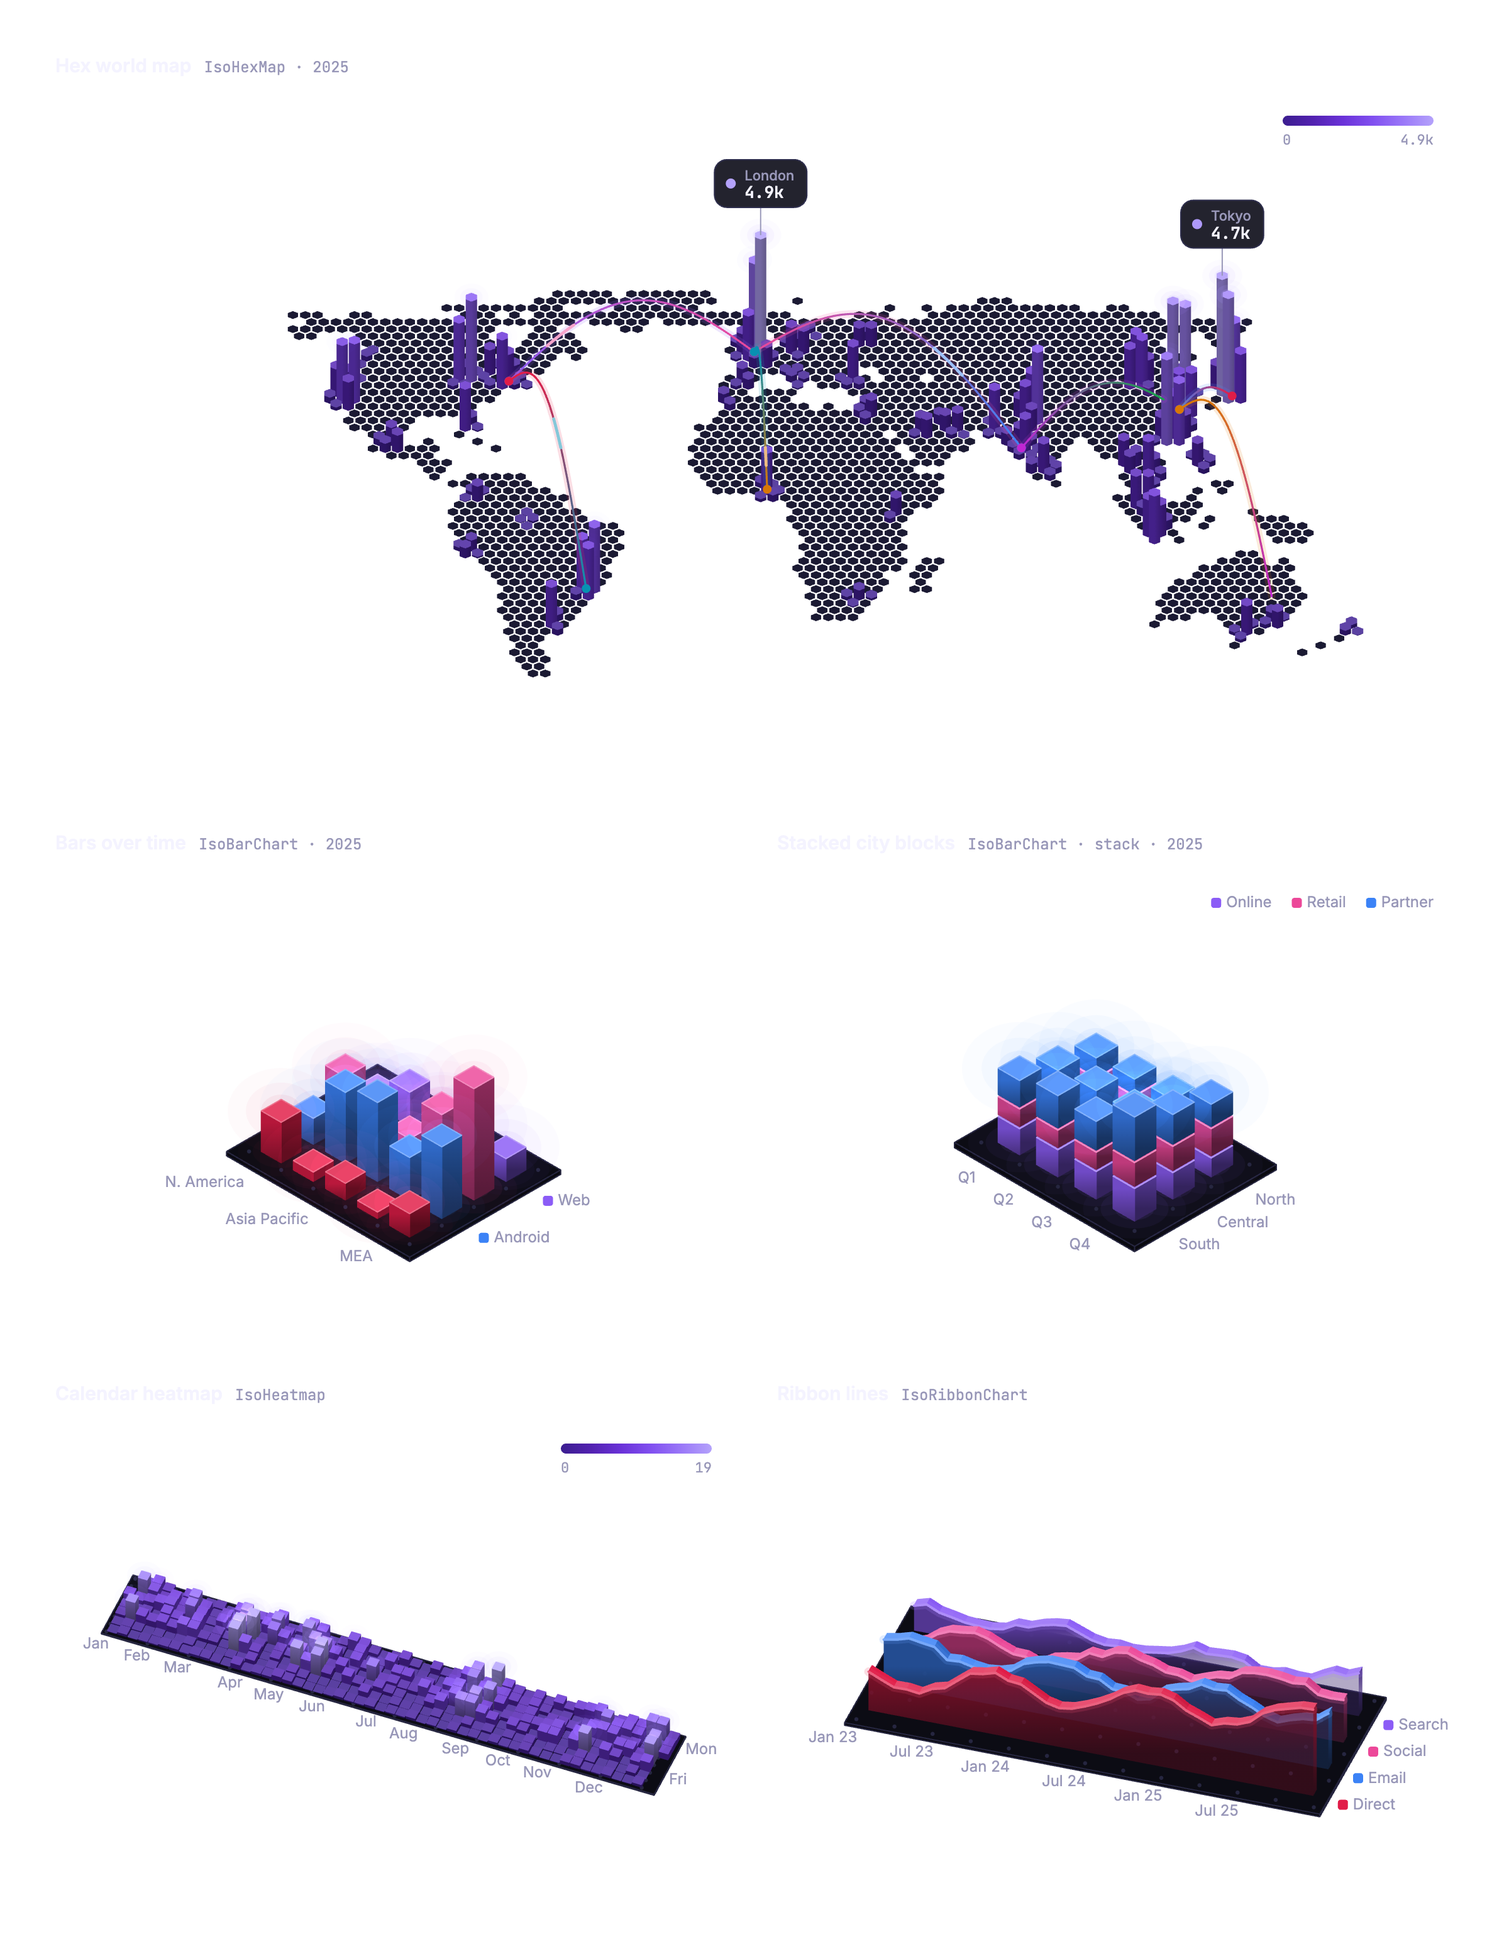
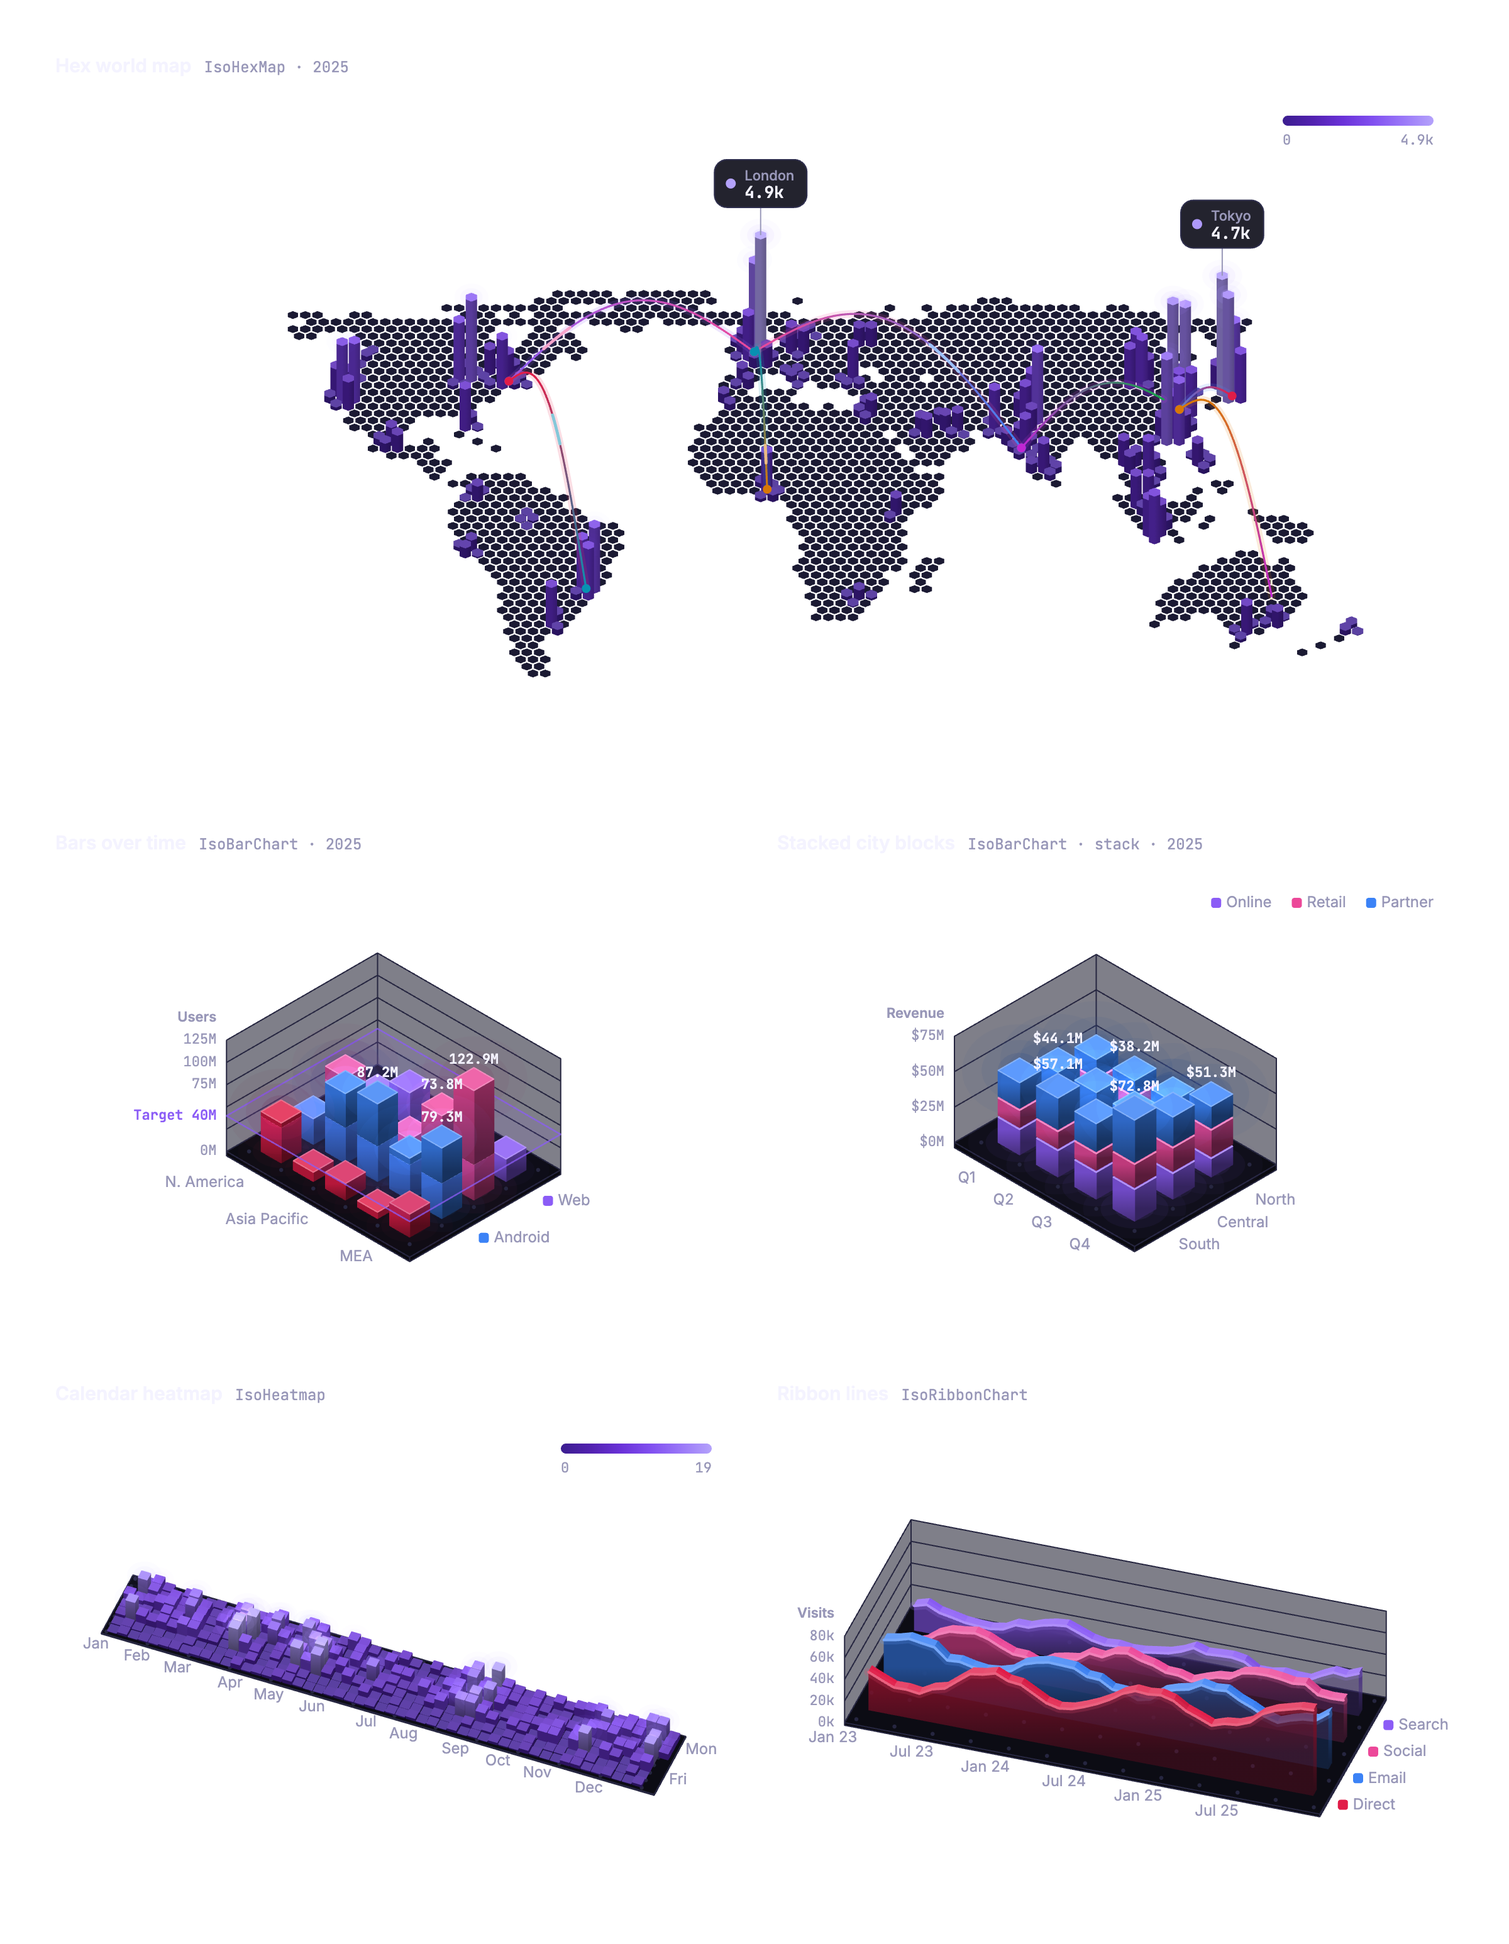
Add value axis walls, level line, value labels and reference plane
Grid charts draw two back walls on the floor edges farthest from the
camera with gridlines at round ticks; the scale tops out at the nearest
round step above the data. Hovering draws dashed lines from the mark's
top to both walls and a value pill on the axis. IsoBarChart adds value
labels (labels: true | N) and a reference plane drawn in split passes so
bars read as rising through it. Hovered bars no longer lift while an axis
is shown, since that would misstate their value.

Changed region(s): [[0.125, 0.4968, 0.375, 0.621], [0.5312, 0.7762, 0.9375, 0.9004], [0.5938, 0.4968, 0.8438, 0.621]]

diff --git a/src/core/grid-chart.js b/src/core/grid-chart.js
@@ -16,6 +16,27 @@ const accessor = (a) => (typeof a === 'function' ? a : (d) => d[a]);
 export const key = (x, y) => `${x}\u0000${y}`;
 const unique = (values) => [...new Set(values)];
 
+// Round tick values from 0 to at least `max`. Among round steps (1, 2, 2.5, 5
+// x 10^n) giving 3-6 intervals, pick the one with the lowest top, so the
+// axis hugs the data instead of overshooting it.
+export function niceTicks(max, count = 4) {
+  if (!(max > 0)) return [0, 1];
+  const mag = 10 ** Math.floor(Math.log10(max / count));
+  let best = null;
+  for (const m of [mag / 10, mag, mag * 10]) {
+    for (const f of [1, 2, 2.5, 5]) {
+      const step = f * m;
+      const n = Math.ceil(max / step - 1e-9);
+      if (n < 3 || n > 6) continue;
+      const top = n * step;
+      if (!best || top < best.top - 1e-9 || (Math.abs(top - best.top) < 1e-9 && Math.abs(n - count) < Math.abs(best.n - count))) {
+        best = { step, n, top };
+      }
+    }
+  }
+  return Array.from({ length: best.n + 1 }, (_, i) => +(i * best.step).toPrecision(12));
+}
+
 export class GridChart extends Chart {
   constructor(container, options = {}) {
     super(container, options);
@@ -75,7 +96,19 @@ export class GridChart extends Chart {
     let max = 0;
     for (const f of this.frames)
       for (const vec of f.values.values()) max = Math.max(max, vec.reduce((a, b) => a + b, 0));
-    this.maxValue = this.options.max ?? (max || 1);
+    // With a value axis the scale tops out at a round tick, so gridlines
+    // land on clean values; without one it fits the data exactly.
+    const axis = this.axis;
+    if (this.options.max != null) {
+      this.maxValue = this.options.max;
+      this.ticks = niceTicks(this.maxValue, axis.ticks).filter((t) => t <= this.maxValue + 1e-9);
+    } else if (axis.show) {
+      this.ticks = niceTicks(max || 1, axis.ticks);
+      this.maxValue = this.ticks.at(-1);
+    } else {
+      this.maxValue = max || 1;
+      this.ticks = [];
+    }
 
     const [sx, sy] = this.spacing;
     const nx = this.xs.length;
@@ -218,9 +251,11 @@ export class GridChart extends Chart {
     const { renderer: R, theme } = this;
     this.fitScene(this.sceneBounds(), { top: 64, right: 28, bottom: 24, left: 28 });
     this.drawFloor();
+    this.drawWalls();
     this.drawLabels();
     this.drawMarks();
     R.ctx.globalAlpha = 1;
+    this.drawLevel();
     this.drawLegend();
 
     if (this.hovered && (this.timeline.playing || this.focus.value < 1)) this._updateTooltip();
@@ -240,6 +275,125 @@ export class GridChart extends Chart {
   }
 
   drawMarks() {}
+
+  // ---- value axis ------------------------------------------------------------
+
+  // options.axis: true | false | { ticks, title }. Charts set `defaultAxis`.
+  get axis() {
+    const a = this.options.axis ?? this.defaultAxis ?? true;
+    if (a === false) return { show: false, ticks: 4 };
+    return { show: true, ticks: 4, title: this.options.valueLabel, ...(typeof a === 'object' ? a : {}) };
+  }
+
+  // How visible the walls are: they fade out as the view nears top-down,
+  // where height can't be read anyway.
+  get wallFade() {
+    return Math.max(0, Math.min(1, (1.42 - this.camera.pitch) / 0.3));
+  }
+
+  // Two walls on the floor edges farthest from the camera, with gridlines at
+  // the ticks and labels on the outer edge. They follow the camera, so the
+  // axis is always behind the data; in front view the back wall faces the
+  // viewer and the chart reads like a plain 2D bar chart.
+  drawWalls() {
+    this._walls = null;
+    if (!this.axis.show) return;
+    const fade = this.wallFade;
+    if (fade <= 0) return;
+    const { camera: C, renderer: R, theme } = this;
+    const ctx = R.ctx;
+    const [hx, hy] = this.floorExtent();
+    const yFar = C.groundDepth(0, hy) < C.groundDepth(0, -hy) ? hy : -hy;
+    const xFar = C.groundDepth(hx, 0) < C.groundDepth(-hx, 0) ? hx : -hx;
+    const H = this.maxHeight;
+    const P = (x, y, z) => C.project(x, y, z);
+
+    ctx.globalAlpha = fade;
+    const wallFill = theme.wall ?? theme.floor;
+    R.polygon([P(-xFar, yFar, 0), P(xFar, yFar, 0), P(xFar, yFar, H), P(-xFar, yFar, H)], wallFill, theme.grid, 1);
+    R.polygon([P(xFar, yFar, 0), P(xFar, -yFar, 0), P(xFar, -yFar, H), P(xFar, yFar, H)], wallFill, theme.grid, 1);
+
+    // Labels go on whichever outer wall edge sits further left on screen.
+    const useA = P(-xFar, yFar, 0).x < P(xFar, -yFar, 0).x;
+    const ax = useA ? -xFar : xFar;
+    const ay = useA ? yFar : -yFar;
+    const reserved = [];
+    if (this.reference) reserved.push(P(ax, ay, this.z(this.reference.value)).y);
+    const hovered = this.cellOf(this.hovered);
+    if (hovered && this.focus.value > 0) reserved.push(P(ax, ay, this.z(this.levelValue(this.hovered))).y);
+    for (const tick of this.ticks) {
+      const z = this.z(tick);
+      if (tick > 0) {
+        ctx.beginPath();
+        const a = P(-xFar, yFar, z);
+        const b = P(xFar, yFar, z);
+        const c = P(xFar, -yFar, z);
+        ctx.moveTo(a.x, a.y);
+        ctx.lineTo(b.x, b.y);
+        ctx.lineTo(c.x, c.y);
+        ctx.strokeStyle = theme.grid;
+        ctx.lineWidth = 1;
+        ctx.stroke();
+      }
+      const p = P(ax, ay, z);
+      // Leave room for the reference label and the hover pill.
+      if (reserved.some((y) => Math.abs(y - p.y) < 18)) continue;
+      R.text(this.format(tick), p.x - 8, p.y, { color: theme.textMuted, size: 11, align: 'right', mono: true });
+    }
+    if (this.axis.title) {
+      const p = P(ax, ay, H);
+      R.text(this.axis.title, p.x - 8, p.y - 18, { color: theme.textMuted, size: 11, weight: 600, align: 'right' });
+    }
+    ctx.globalAlpha = 1;
+    this._walls = { xFar, yFar, ax, ay, fade };
+  }
+
+  // Value at the top of what's hovered (a stack reads at its part's top).
+  levelValue(datum) {
+    const cell = this.cellOf(datum);
+    if (datum?.cell && this.stack) {
+      let sum = 0;
+      for (let s = 0; s <= datum.index; s++) sum += cell.value[s];
+      return sum;
+    }
+    return cell.total;
+  }
+
+  // 3D crosshair: dashed lines from the hovered mark's top to both walls,
+  // and a value pill on the axis at exactly that height.
+  drawLevel() {
+    const w = this._walls;
+    const cell = this.cellOf(this.hovered);
+    if (!w || !cell || this.focus.value <= 0) return;
+    const { camera: C, renderer: R, theme } = this;
+    const ctx = R.ctx;
+    const value = this.levelValue(this.hovered);
+    const z = this.z(value);
+    const P = (x, y) => C.project(x, y, z);
+    const top = P(cell.gx, cell.gy);
+    ctx.globalAlpha = this.focus.value * w.fade;
+    ctx.setLineDash([4, 4]);
+    ctx.strokeStyle = theme.text;
+    ctx.lineWidth = 1;
+    for (const end of [P(cell.gx, w.yFar), P(w.xFar, cell.gy)]) {
+      ctx.beginPath();
+      ctx.moveTo(top.x, top.y);
+      ctx.lineTo(end.x, end.y);
+      ctx.stroke();
+    }
+    ctx.setLineDash([]);
+
+    // Value pill over the tick labels.
+    const a = P(w.ax, w.ay);
+    const text = this.format(value);
+    const tw = R.measure(text, 11, 600, true);
+    ctx.beginPath();
+    ctx.roundRect(a.x - tw - 16, a.y - 10, tw + 12, 20, 6);
+    ctx.fillStyle = theme.text;
+    ctx.fill();
+    R.text(text, a.x - 10, a.y, { color: theme.surface, size: 11, weight: 600, align: 'right', mono: true });
+    ctx.globalAlpha = 1;
+  }
 
   // Colour for a series slot (stack part when stacked, otherwise row).
   // options.colors may be an array, a { key: colour } map, or (key, index) => colour.

diff --git a/src/charts/IsoBarChart.js b/src/charts/IsoBarChart.js
@@ -16,39 +16,117 @@ export class IsoBarChart extends GridChart {
     this.init();
   }
 
+  // options.reference: a value or { value, label }. A translucent plane at
+  // that height; bars are split at it so what's below reads as submerged.
+  get reference() {
+    const r = this.options.reference;
+    if (r == null) return null;
+    return typeof r === 'object' ? r : { value: r };
+  }
+
+  setReference(reference) {
+    this.options.reference = reference;
+    this.invalidate();
+  }
+
   drawMarks() {
+    const R = this.renderer;
+    const cells = this.sortedCells();
+    const ref = this.reference;
+    if (!ref) {
+      this._drawBars(cells, 0, Infinity);
+    } else {
+      // Below the plane, the plane itself, then above: correct from any
+      // camera above the floor, with no per-pixel depth sorting.
+      const zp = this.z(ref.value);
+      this._drawBars(cells, 0, zp);
+      this._drawPlane(zp, ref);
+      this._drawBars(cells, zp, Infinity);
+    }
+    R.ctx.globalAlpha = 1;
+    this._drawValueLabels(cells);
+  }
+
+  // Draw every bar's parts clipped to the height band [lo, hi).
+  _drawBars(cells, lo, hi) {
     const { camera: C, renderer: R, theme } = this;
     const w = this.barWidth / 2;
     // A 2px surface gap between stacked parts, in world units.
     const gap = 2 / (C.scale * C.zoom);
     const hovered = this.hovered;
+    // Lifting a hovered bar would misstate its value against the axis.
+    const liftHeight = this.axis.show ? 0 : LIFT;
 
-    for (const cell of this.sortedCells()) {
+    for (const cell of cells) {
       R.ctx.globalAlpha = 1 - 0.55 * this.dimFor(cell);
       const lift = cell.lift.value;
       const box = { x0: cell.gx - w, x1: cell.gx + w, y0: cell.gy - w, y1: cell.gy + w };
-      let z = lift * LIFT;
+      let z = lift * liftHeight;
 
       if (cell.total <= 0) {
+        if (lo > 0) continue;
         // Keep empty cells pickable as a flat tile.
         const hits = drawBox(C, R, theme, { ...box, z0: z, z1: z + 0.015 }, parseHex(theme.grid));
         R.hit(hits, cell.parts[0]);
         continue;
       }
+      const lastPart = cell.parts.findLast((p) => cell.value[p.index] > 0);
       for (const part of cell.parts) {
         const h = this.z(cell.value[part.index]);
         if (h <= 0) continue;
+        const z0 = Math.max(z, lo);
+        const z1 = Math.min(z + Math.max(h - (this.stack ? gap : 0), 0.015), hi);
+        z += h;
+        if (z1 <= z0) continue;
         const color = this.seriesColor(this.stack ? part.index : cell.j);
         const isHovered = part === hovered || (!this.stack && cell === hovered?.cell);
         const glow = 1 + (isHovered ? 0.14 : 0.06) * lift;
-        const z1 = z + Math.max(h - (this.stack ? gap : 0), 0.015);
-        // Only the top of each bar blooms, stronger when hovered.
-        const isTop = part.index === cell.parts.length - 1 || !this.stack;
-        const bloom = theme.glow * ((isTop ? 0.45 : 0) + 0.55 * lift);
-        R.hit(drawBox(C, R, theme, { ...box, z0: z, z1 }, parseHex(color), { glow, bloom }), part);
-        z += h;
+        // Only the very top of each bar blooms, stronger when hovered.
+        const isTop = part === lastPart && hi === Infinity;
+        const bloom = isTop ? theme.glow * (0.45 + 0.55 * lift) : 0;
+        R.hit(drawBox(C, R, theme, { ...box, z0, z1 }, parseHex(color), { glow, bloom }), part);
       }
     }
+  }
+
+  _drawPlane(zp, ref) {
+    const { camera: C, renderer: R, theme } = this;
+    const ctx = R.ctx;
+    const [hx, hy] = this.floorExtent();
+    const P = (x, y) => C.project(x, y, zp);
+    const rgb = parseHex(ref.color ?? theme.series[0]);
+    const pts = [P(-hx, -hy), P(hx, -hy), P(hx, hy), P(-hx, hy)];
+    ctx.globalAlpha = 1;
+    R.polygon(pts, `rgba(${rgb.join(',')},0.1)`, `rgba(${rgb.join(',')},0.75)`, 1.25);
+
+    // Label at the plane's leftmost corner.
+    const left = pts.reduce((a, b) => (b.x < a.x ? b : a));
+    const text = `${ref.label ? `${ref.label} ` : ''}${this.format(ref.value)}`;
+    R.text(text, left.x - 8, left.y, { color: `rgb(${rgb.join(',')})`, size: 11, weight: 600, align: 'right', mono: true });
+  }
+
+  // options.labels: true (every bar, culled where they collide) or N (the
+  // N tallest). Totals sit just above each bar's top.
+  _drawValueLabels(cells) {
+    const opt = this.options.labels;
+    if (!opt) return;
+    const { camera: C, renderer: R, theme } = this;
+    let list = cells.filter((c) => c.total > 0 && !c.leaving);
+    if (typeof opt === 'number') list = [...list].sort((a, b) => b.total - a.total).slice(0, opt);
+    // Nearest first, so the most visible labels win collisions.
+    list = [...list].sort((a, b) => C.groundDepth(b.gx, b.gy) - C.groundDepth(a.gx, a.gy));
+    const placed = [];
+    for (const cell of list) {
+      const p = C.project(cell.gx, cell.gy, this.z(cell.total));
+      const text = this.format(cell.total);
+      const w = R.measure(text, 11, 600, true) + 8;
+      const box = { l: p.x - w / 2, r: p.x + w / 2, t: p.y - 24, b: p.y - 8 };
+      if (placed.some((q) => box.l < q.r && box.r > q.l && box.t < q.b && box.b > q.t)) continue;
+      placed.push(box);
+      R.ctx.globalAlpha = 1 - 0.6 * this.dimFor(cell);
+      R.text(text, p.x, p.y - 15, { color: theme.text, size: 11, weight: 600, mono: true });
+    }
+    R.ctx.globalAlpha = 1;
   }
 
   describe(part) {

diff --git a/examples/demos.js b/examples/demos.js
@@ -194,7 +194,10 @@ export const demos = {
         x: 'region',
         y: 'platform',
         value: 'users',
-        format: (v) => `${v.toFixed(1)}M`,
+        valueLabel: 'Users',
+        format: (v) => `${+v.toFixed(1)}M`,
+        labels: 5,
+        reference: { value: 40, label: 'Target' },
         frameDuration: 1200,
         ariaLabel: 'Isometric bar chart of monthly active users by region and platform over time',
         ...extra,
@@ -211,8 +214,10 @@ export const demos = {
         y: 'region',
         stack: 'channel',
         value: 'revenue',
+        valueLabel: 'Revenue',
+        labels: true,
         barWidth: 0.56,
-        format: (v) => `$${v.toFixed(1)}M`,
+        format: (v) => `$${+v.toFixed(1)}M`,
         ariaLabel: 'Stacked isometric bars of quarterly revenue by region and channel',
         ...extra,
       }),
@@ -250,8 +255,9 @@ export const demos = {
         x: 'month',
         y: 'channel',
         value: 'visits',
+        valueLabel: 'Visits',
         xTicks: (m) => (m.startsWith('Jan') || m.startsWith('Jul') ? m : null),
-        format: (v) => `${v.toFixed(1)}k`,
+        format: (v) => `${+v.toFixed(1)}k`,
         camera: { yaw: 0.32, pitch: 0.62 },
         ariaLabel: 'Ribbon chart of monthly site visits by channel',
         ...extra,

diff --git a/src/core/color.js b/src/core/color.js
@@ -51,6 +51,7 @@ export const themes = {
     floor: '#0c0c14',
     grid: '#262640',
     land: '#1b1a33',
+    wall: 'rgba(22, 22, 40, 0.55)',
     highlight: '#17172b',
     text: '#f4f3ff',
     textMuted: '#9897b8',
@@ -71,6 +72,7 @@ export const themes = {
     floor: '#1b1b24',
     grid: '#2b2b38',
     land: '#2a2a3a',
+    wall: 'rgba(34, 34, 46, 0.6)',
     highlight: '#262636',
     text: '#f4f4f8',
     textMuted: '#a3a3b8',

diff --git a/src/charts/IsoHeatmap.js b/src/charts/IsoHeatmap.js
@@ -15,6 +15,8 @@ export class IsoHeatmap extends GridChart {
     this.extrude = options.extrude ?? true;
     // Tiles already cover the floor, so pooled light under them is wasted work.
     this.pools = false;
+    // Colour carries the value; walls would only clutter a dense grid.
+    this.defaultAxis = false;
     this.init();
   }
 

diff --git a/src/charts/IsoRibbonChart.js b/src/charts/IsoRibbonChart.js
@@ -187,7 +187,8 @@ export class IsoRibbonChart extends GridChart {
   }
 
   // One tooltip for the whole x position: every series' value there.
-  describe(cell) {
+  describe(datum) {
+    const cell = this.cellOf(datum);
     const rows = this.ys.map((yv, j) => {
       const c = this.cells.get(key(cell.x, yv));
       return {

diff --git a/README.md b/README.md
@@ -36,6 +36,10 @@ map.hexAt(-74, 40.7);   // the hex containing it
 - `IsoRibbonChart`: one extruded ribbon per series, x along the floor
 - `IsoHexMap`: rounded hexagons over the world (or `bounds`), data binned by exact coordinates; arcs and callouts
 
+Grid charts get a value axis on back walls that follow the camera (`axis: false` to hide), a dashed
+level line from the hovered mark to the axis, value labels (`labels: true | N`) and a reference
+plane (`reference: { value, label }`) that bars rise through.
+
 All charts support `frames` + `play()/pause()/seek()`, view presets (`setView('iso' | 'top' | 'front')`),
 orbit/zoom, hover tooltips and `on('hover' | 'click' | 'frame')`.
 
